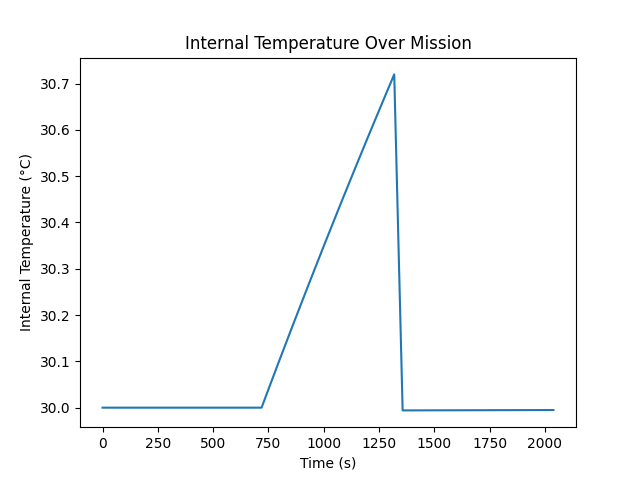
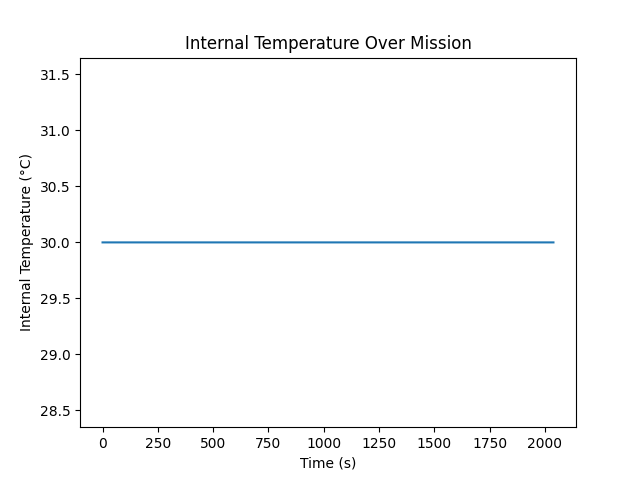
Thermal Update

diff --git a/DetailedDesign/subsystems/thermal.py b/DetailedDesign/subsystems/thermal.py
@@ -2,7 +2,6 @@
 This is the file for the thermal subsystem. It contains a single class.
 '''
 
-
 import math
 import matplotlib.pyplot as plt
 
@@ -16,12 +15,11 @@ class Thermal:
         self.T_amb_hot = inputs["T_amb_hot"]
         # Cruise-region ambient temperature (°C)
         self.T_amb_cruise = inputs["T_amb_cruise"]
-        # Maximum allowable internal temperature (°C)
-        self.T_int_max = inputs["T_int_max"]
         # Initial internal temperature before hot region (°C)
         self.T_int_init = inputs["T_int_init"]
         # Cruise internal set-point after hot region (°C)
         self.T_int_cruise_set = inputs["T_int_cruise_set"]
+
 
         # Shell geometry and materials
         self.A_heat_shell = inputs["A_heat_shell"]    # Effective heat-transfer area (m²)
@@ -43,6 +41,8 @@ class Thermal:
 
         # Exposure time in hot region (s)
         self.t_exposure = inputs["t_exposure"]
+        # Cruise leg duration (s) for both outbound and return
+        self.t_cruise = inputs.get("t_cruise", 12*60)  
         # Maximum cooler power available (W)
         self.Q_cooler = inputs.get("Q_cooler", 0.0)       # Maximum cooler capacity (W)
 
@@ -65,8 +65,23 @@ class Thermal:
     def simulate_hot_phase(self, Q_cool: float) -> float:
         '''Simulate the 1-s iterative hot phase and return the exit internal temperature.'''
         R_tot = self._compute_resistances()
+        # Compute the steady hold power at T_int_init in hot ambient
+        Q_hold_initial = self.heat_int + (self.T_amb_hot - self.T_int_init) / R_tot
+        # If max cooler is larger than hold, clamp to hold power (no temperature rise)
+        if Q_cool >= Q_hold_initial:
+            self.outputs["Hot_hold_power"] = Q_hold_initial
+            return self.T_int_init
+
+        # Otherwise run full-power iteration, but clamp each second if overcool
         T_current = self.T_int_init
         for _ in range(int(self.t_exposure)):
+            # recompute the hold power at this T_current
+            Q_hold = self.heat_int + (self.T_amb_hot - T_current) / R_tot
+            if Q_cool >= Q_hold:
+                # clamp to Q_hold to keep T_current constant
+                self.outputs.setdefault("Hot_hold_power_times", []).append(Q_hold)
+                return T_current
+            # integrate one second with full Q_cool
             dTdt = (self.heat_int + (self.T_amb_hot - T_current) / R_tot - Q_cool) / (self.m_int * self.c_p_int)
             T_current += dTdt
         return T_current
@@ -108,11 +123,11 @@ class Thermal:
         def mission_end_temp(Q_trial: float) -> float:
             # 1) Cruise-out: hold initial temp at cruise ambient using just enough power
             Q_cruise_hold = self.get_cruise_cooling_power()
-            T_mid = self.simulate_cruise_phase(self.T_int_init, Q_cruise_hold, 12*60)
+            T_mid = self.simulate_cruise_phase(self.T_int_init, Q_cruise_hold, self.t_cruise)
             # 2) Hot region: run at Q_trial
             T_mid = self.simulate_hot_phase(Q_trial)
             # 3) Cruise back: continue at Q_trial
-            T_end = self.simulate_cruise_phase(T_mid, Q_trial, 12*60)
+            T_end = self.simulate_cruise_phase(T_mid, Q_trial, self.t_cruise)
             return T_end
 
         # Bounds: Q_low=0, Q_high large enough so T_end < T_int_init
@@ -142,7 +157,7 @@ class Thermal:
         self.outputs["Required_cooler_zero_gain"] = self.get_required_cooler_for_zero_gain()
         return self.outputs
 
-if __name__ == '__main__':  # pragma: no cover
+if __name__ == '__main__': 
     # Sanity check with example inputs
     example_inputs = {
         "T_amb_hot": 140.0,
@@ -152,15 +167,16 @@ if __name__ == '__main__':  # pragma: no cover
         "T_int_cruise_set": 30.0,
         "A_heat_shell": 0.5,
         "t_shell": 0.002,
-        "k_Ti": 22.0,
+        "k_Ti": 6.7,
         "include_insulation": True,
         "t_insulation": 0.01,
-        "k_insulation": 0.02,
-        "heat_coeff_ext": 50.0,
+        "k_insulation": 0.017,
+        "heat_coeff_ext": 45.0,
         "heat_int": 200.0,
         "m_int": 5.0,
-        "c_p_int": 900.0,
+        "c_p_int": 500.0,
         "t_exposure": 600.0,
+        "t_cruise": 12*60,
         "Q_cooler": 300.0
     }
     thermal = Thermal(example_inputs)
@@ -171,7 +187,7 @@ if __name__ == '__main__':  # pragma: no cover
 
     # --- Simulation and plotting ---
     dt = 1.0  # s interval
-    phases = [("cruise", 12*60), ("hot", example_inputs["t_exposure"]), ("cruise", 12*60)]
+    phases = [("cruise", example_inputs["t_cruise"]), ("hot", example_inputs["t_exposure"]), ("cruise", example_inputs["t_cruise"])]
     times, temps, power_req = [], [], []
     T = example_inputs["T_int_init"]
     R_tot = thermal._compute_resistances()
@@ -184,7 +200,7 @@ if __name__ == '__main__':  # pragma: no cover
                 current_time = len(times) * dt
                 times.append(current_time)
 
-                if current_time < 12*60:
+                if current_time < example_inputs["t_cruise"]:
                     # Outbound cruise: hold at initial temp
                     T_amb = example_inputs["T_amb_cruise"]
                     Q_command = Q_cruise_hold
@@ -206,6 +222,14 @@ if __name__ == '__main__':  # pragma: no cover
                 current_time = len(times) * dt
                 times.append(current_time)
                 T_amb = example_inputs["T_amb_hot"]
+                # clamp logic in hot phase
+                Q_hold = example_inputs["heat_int"] + (T_amb - T) / R_tot
+                if example_inputs["Q_cooler"] >= Q_hold:
+                    Q_command = Q_hold
+                    temps.append(T)
+                    power_req.append(Q_command)
+                    continue
+                # Otherwise use full cooler power
                 Q_command = example_inputs["Q_cooler"]
                 dTdt = (example_inputs["heat_int"] + (T_amb - T) / R_tot - Q_command) / (example_inputs["m_int"] * example_inputs["c_p_int"])
                 T += dTdt * dt
@@ -226,151 +250,4 @@ if __name__ == '__main__':  # pragma: no cover
     plt.xlabel('Time (s)')
     plt.ylabel('Commanded Cooling Power (W)')
     plt.title('Cooling Power Demand Over Mission')
-    plt.savefig('DetailedDesign/subsystems/Plots/power_demand_cooler.png')
-
-
-
-
-
-
-
-
-
-
-
-
-
-
-
-    #============================OLD CODE=============================
-
-
-
-
-    """
-class Thermal:
-
-    def __init__(self, inputs):
-        self.inputs = inputs
-        self.outputs = self.inputs.copy()
-
-        self.T_amb = inputs["T_amb"]                #External ambient temperature the UAV is exposed to (°C)
-        self.T_int_max = inputs["T_int_max"]        #Maximum allowable internal temperature for the electronics (°C)
-        self.T_int_init = inputs["T_int_init"]      #Initial internal temperature UAV
-        self.A_heat_shell = inputs["A_heat_shell"]      #Effective heat-transfer area of the shell or panel (m²)
-        self.t_shell = inputs["t_shell"]            #Thickness of the titanium shell (m)
-        self.k_Ti = inputs["k_Ti"]                 #Thermal conductivity of titanium (W/(m·K))
-        self.heat_coeff_ext = inputs["heat_coeff_ext"]            #External convective heat-transfer coefficient (airblast) on the shell (W/(m²·K))
-        self.heat_int = inputs["heat_int"]                 #Internal waste heat dissipation from electronics and systems (W)
-        self.m_int = inputs["m_int"]                         #Mass of the internal components / thermal mass (kg)
-        self.c_p_int = inputs["c_p_int"]                       #Effective specific heat capacity of the internal mass (J/(kg·K))
-        self.t_exposure = inputs["t_exposure"]          #Duration spent in the hot environment (s)
-        self.include_insulation = inputs["include_insulation"]      #Boolean flag: whether to include an insulation layer in the resistance network
-        self.t_insulation = inputs["t_insulation"]                     #Thickness of the insulation layer (m)
-        self.k_insulation = inputs["k_insulation"]                 #Thermal conductivity of the insulation material (W/(m·K))
-        
-
-
-
-
-    # ~~~ Intermediate Functions ~~~
-
-    def _compute_resistances(self):
-        """
-        ##Compute thermal resistances: conduction through titanium shell, optional insulation, and external convection.
-        ##Returns (R_Ti, R_ins, R_conv, R_tot) in K/W.
-"""
-
-        # Titanium conduction resistance
-
-        R_Ti = self.t_shell / (self.k_Ti * self.A_heat_shell)
-
-        # Insulation conduction resistance (if used)
-        if self.include_insulation:
-            R_ins = self.t_insulation / (self.k_insulation * self.A_heat_shell)
-        else:
-            R_ins = 0.0
-
-        # External convection resistance
-        R_conv = 1.0 / (self.heat_coeff_ext * self.A_heat_shell)
-
-        # Total resistance
-        R_tot = R_Ti + R_ins + R_conv
-
-        return R_Ti, R_ins, R_conv, R_tot
-
-    def _compute_steady_state_cooling(self) -> float:
-        """
-        ##Compute steady-state cooling power required (W) to hold internal at setpoint indefinitely.
-"""
-        R_Ti, R_ins, R_conv, R_tot = self._compute_resistances()
-
-        return self.heat_int + (self.T_amb - self.T_int_max) / R_tot
-
-    def _compute_transient_cooling(self) -> float:
-        """
-        ##Compute transient cooling power (W) for limited exposure time.
-"""
-        R_Ti, R_ins, R_conv, R_tot = self._compute_resistances()
-
-        delta_T_allowed = self.T_int_max - self.T_int_init
-        # Average internal temperature during transient
-        T_int_avg = self.T_int_max + 0.5 * delta_T_allowed
-        # Energy balance over exposure time
-        return (self.m_int * self.c_p_int * delta_T_allowed) / self.t_exposure + self.heat_int + (self.T_amb - T_int_avg) / R_tot
-
-    # ~~~ Output functions ~~~ 
-    """
-    ##def get_all(self) -> dict[str, float]:
-        
-        # These are all the required outputs for this class. Plz consult the rest if removing any of them!
-
-    ##    outputs["Thermal_mass"] = ...
-    ##    outputs["Thermal_power_required"] = ...
-
-    ##    return self.outputs
-"""
-
-
-    def get_all(self) -> dict[str, float]:
-        # These are all the required outputs for this class. Plz consult the rest if removing any of them!
-        # Compute thermal mass (J/K)
-        self.outputs["Thermal_mass"] = self.m_int * self.c_p_int
-
-        # Compute total thermal resistance
-        _, _, _, R_tot = self._compute_resistances()
-        delta_T_allowed = self.T_int_max - self.T_int_init
-        # Choose cooling calculation: transient if time and delta provided, else steady-state
-        if self.t_exposure > 0 and delta_T_allowed > 0:
-            Q_req = self._compute_transient_cooling()
-        else:
-            Q_req = self._compute_steady_state_cooling()
-
-        self.outputs["Thermal_power_required"] = Q_req
-        return self.outputs
-
-if __name__ == '__main__':
-    # Sanity checks:
-
-    sample_inputs = {
-        "T_amb": 140.0,            # °C
-        "T_int_max": 60.0,         # °C
-        "T_int_init": 30,          # °C 
-        "A_heat_shell": 0.5,                  # m^2
-        "t_shell": 0.002,             # m
-        "k_Ti": 22.0,              # W/(m·K)
-        "heat_coeff_ext": 50.0,             # W/(m^2·K)
-        "heat_int": 200.0,            # W
-        "m_int": 5.0,              # kg
-        "c_p_int": 900.0,              # J/(kg·K)
-        "t_exposure": 600.0,      # s
-        "include_insulation": False,
-        "t_insulation": 0.01,           # m
-        "k_insulation": 0.02           # W/(m·K)
-    }
-    thermal = Thermal(sample_inputs)
-    outputs = thermal.get_all()
-    print("Thermal_mass (J/K):", outputs["Thermal_mass"])
-    print("Thermal_power_required (W):", outputs["Thermal_power_required"])
-"""
-
+    plt.savefig('DetailedDesign/subsystems/Plots/power_demand_cooler.png')  
